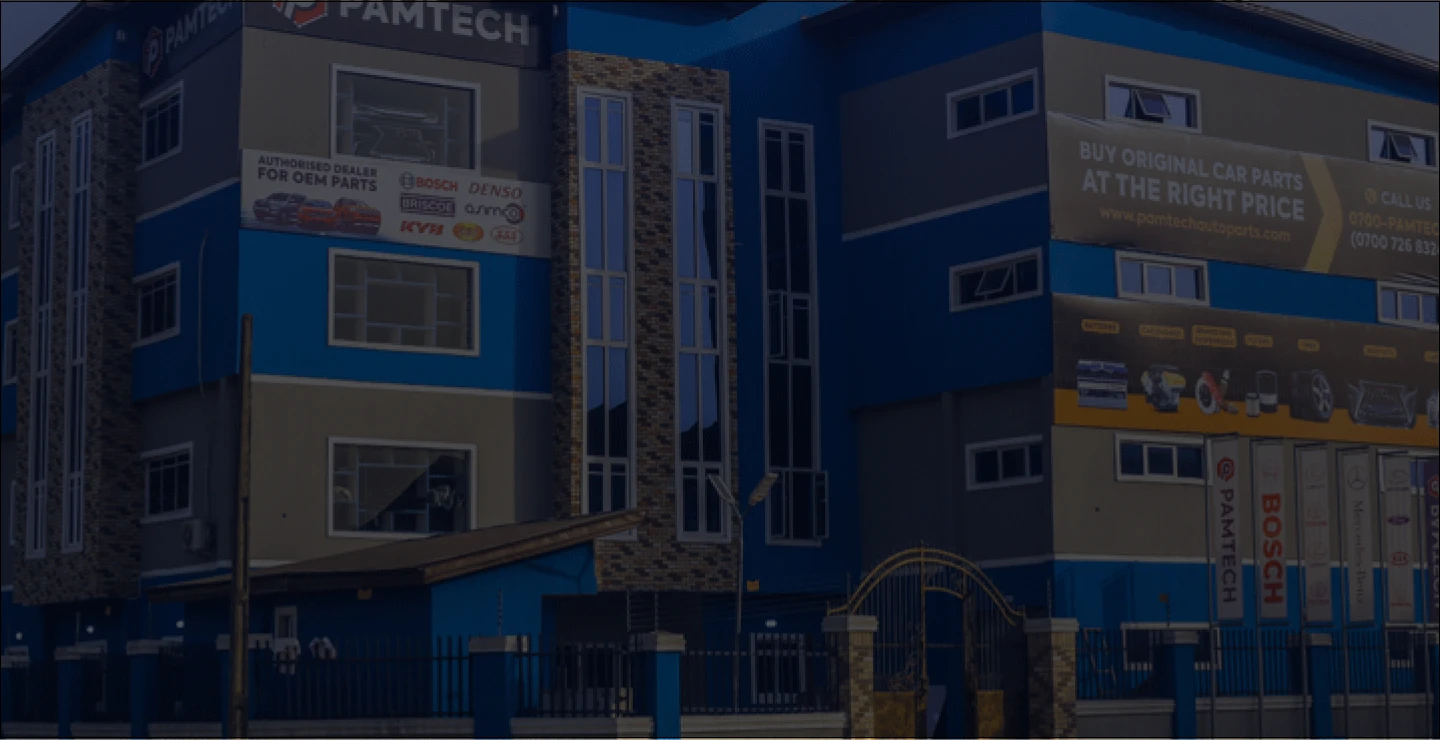
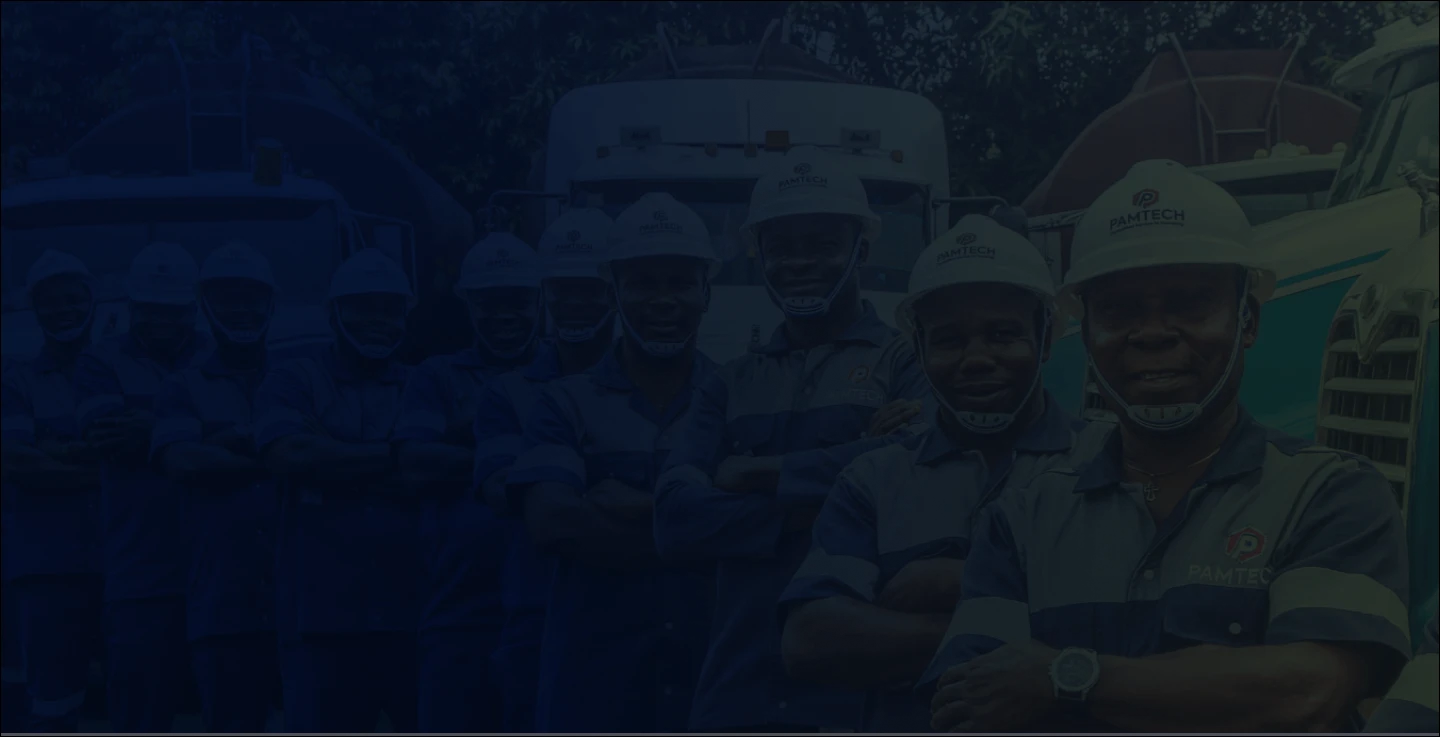
changed button alignment

diff --git a/app/components/major/Hero.tsx b/app/components/major/Hero.tsx
@@ -1,6 +1,6 @@
 import { Box, Button, Flex, Heading, Text } from "@chakra-ui/react";
 import bg from "../../../public/hero1.webp";
-import bg2 from "../../../public/hero2.webp";
+import bg2 from "../../../public/hero2.png";
 import bg3 from "../../../public/hero3.webp";
 import bg4 from "../../../public/hero4.webp";
 import bg5 from "../../../public/hero5.webp";
@@ -65,6 +65,7 @@ const SlideContent: React.FC<SlideContentProps> = ({ bg, heading, text }) => (
       height="100vh"
       color="#F7F7F7">
       <Flex
+        mt='3rem'
         height="100%"
         flexDir="column"
         justifyContent="center"

diff --git a/app/components/major/About.tsx b/app/components/major/About.tsx
@@ -22,8 +22,8 @@ const About = () => {
             bgColor="#F5F8FF"
             right="6%"
             top={{
-              base: "30%",
-              dddxl: "45%",
+              base: "10%",
+              "2xl": "75%",
             }}
             padding="2rem 5rem"
             width="40%">

diff --git a/app/components/minor/ButtonMain.tsx b/app/components/minor/ButtonMain.tsx
@@ -10,7 +10,7 @@ interface ButtonMainProps {
 const ButtonMain: React.FC<ButtonMainProps> = ({ text }) => {
   return (
     <Button
-      my="1.5rem"
+      mt="4rem"
       width="fit-content"
       padding={theme.buttonPadding}
       bgColor="primaryOrange"
